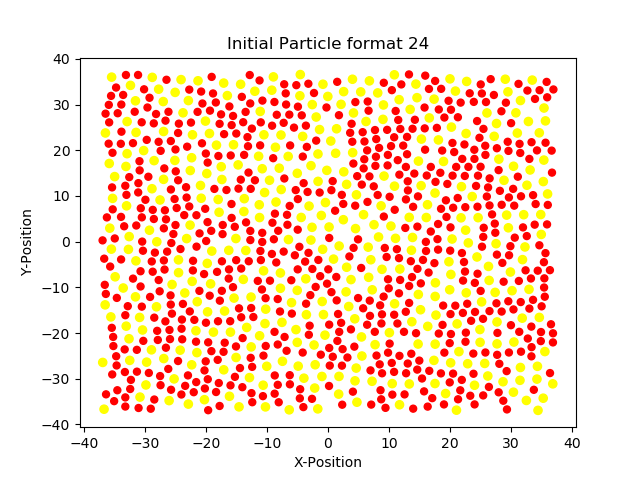
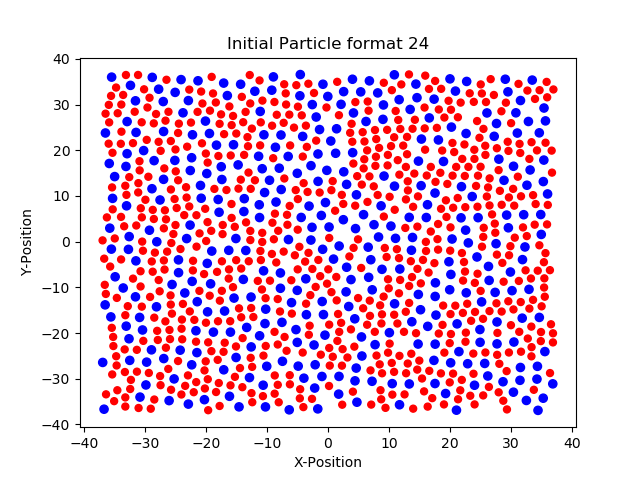
Testing Colors 2

diff --git a/Chakraborty/particle.py b/Chakraborty/particle.py
@@ -8,9 +8,9 @@ def graphFrame(particleRadius, particleX, particleZ, counter, cwd):
     color = [];
     for i in range(len(particleRadius)):
         if particleRadius[i] == 1 * 25:
-            color.append("red");
+            color.append("red");#navy
         elif particleRadius[i] == 1.4 * 25:
-            color.append("yellow");
+            color.append("blue"); #lightcoral
         else:
             color.append("black");
     #look into the size variable, plotting circles.
